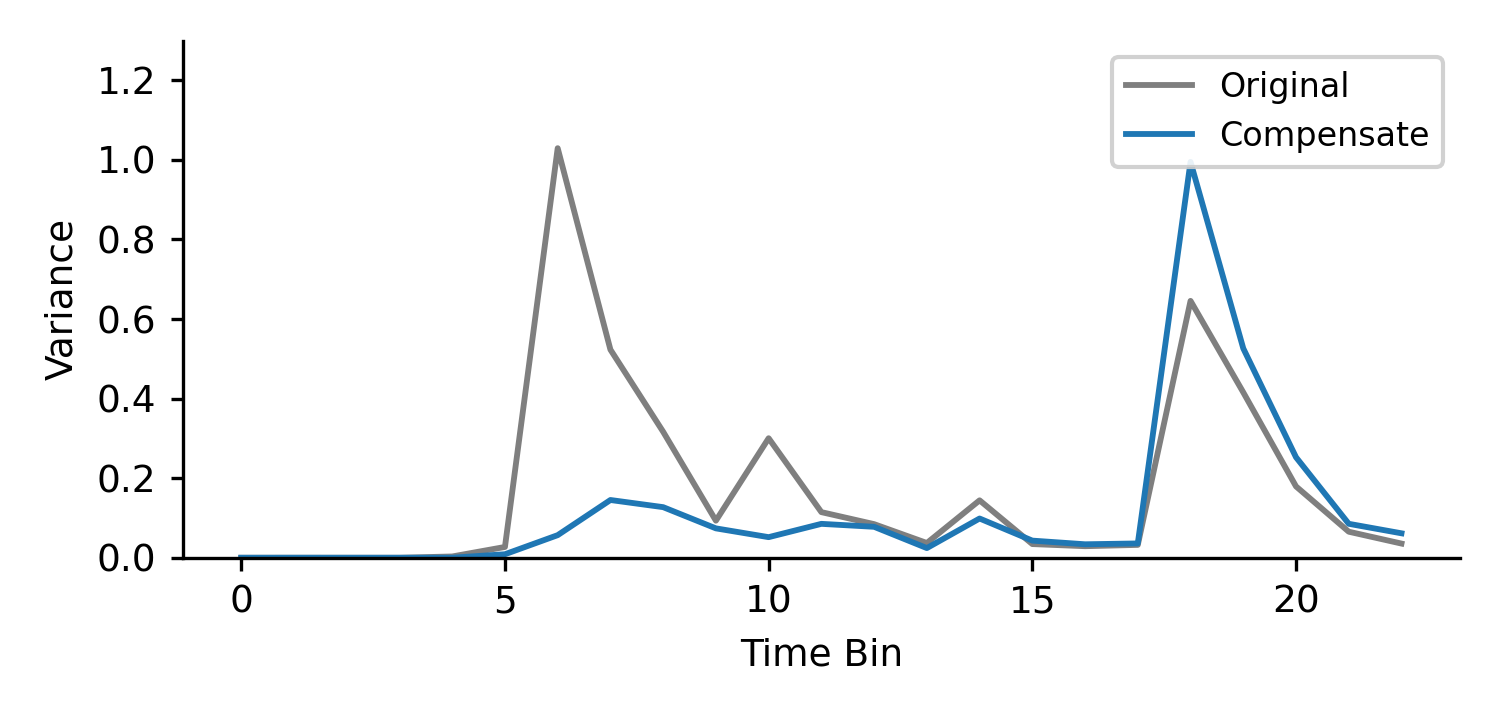
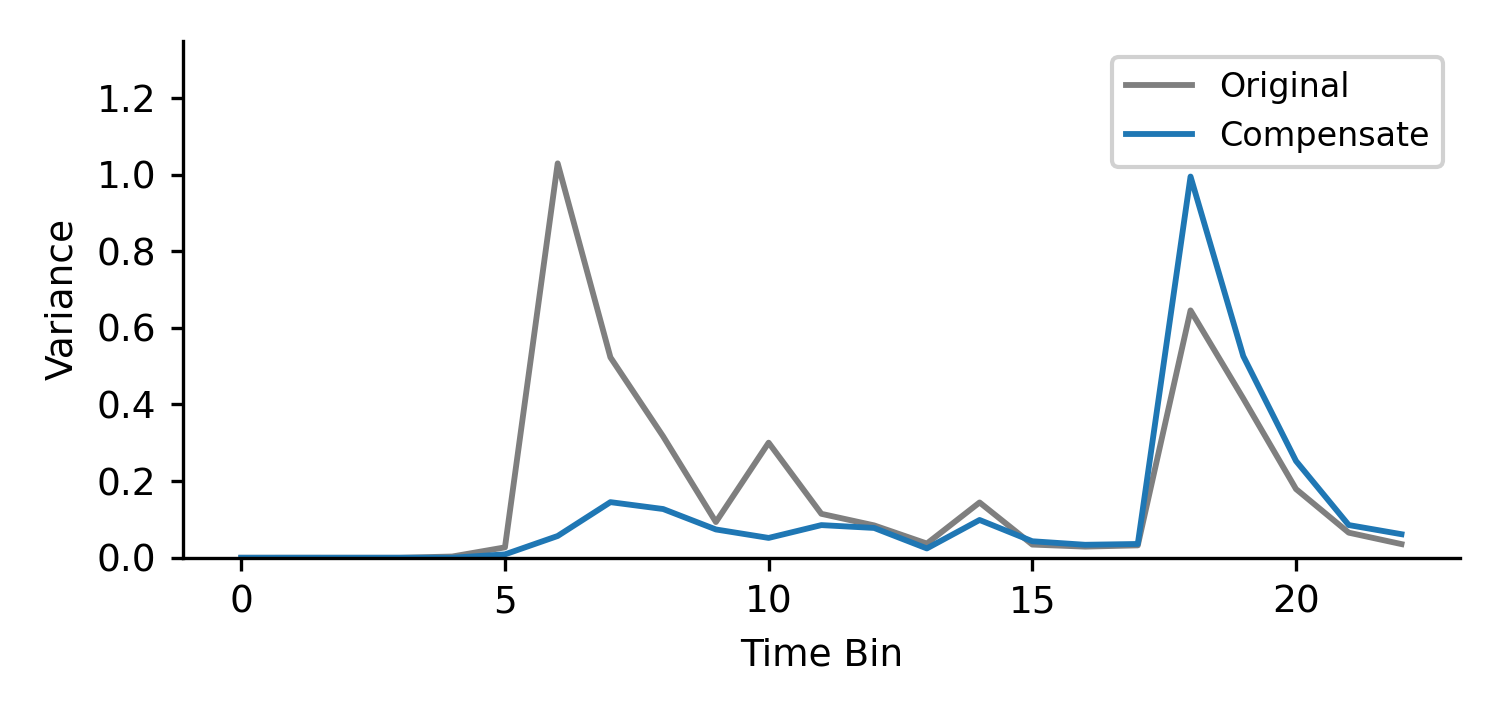
style(fig3b): extend ylim to 1.35 and show ticks every 0.2 up to 1.2; keep legend upper-right

diff --git a/publication_code/figure03_multiwindow_compensation.py b/publication_code/figure03_multiwindow_compensation.py
@@ -262,7 +262,7 @@ def render_panel_b(segments_dir: Path, base: str, out_dir: Path, *,
     ax.set_xlabel("Time Bin")
     # Set fixed headroom up to 1.3 and show ticks every 0.2, but omit the
     # top-most 1.3 tick label to avoid overlap with panel letter (b).
-    top = 1.3 + 1e-6
+    top = 1.35 + 1e-6
     ax.set_ylim(0.0, top)
     ax.set_yticks(np.arange(0.0, 1.3, 0.2))
     ax.set_ylabel("Variance")
